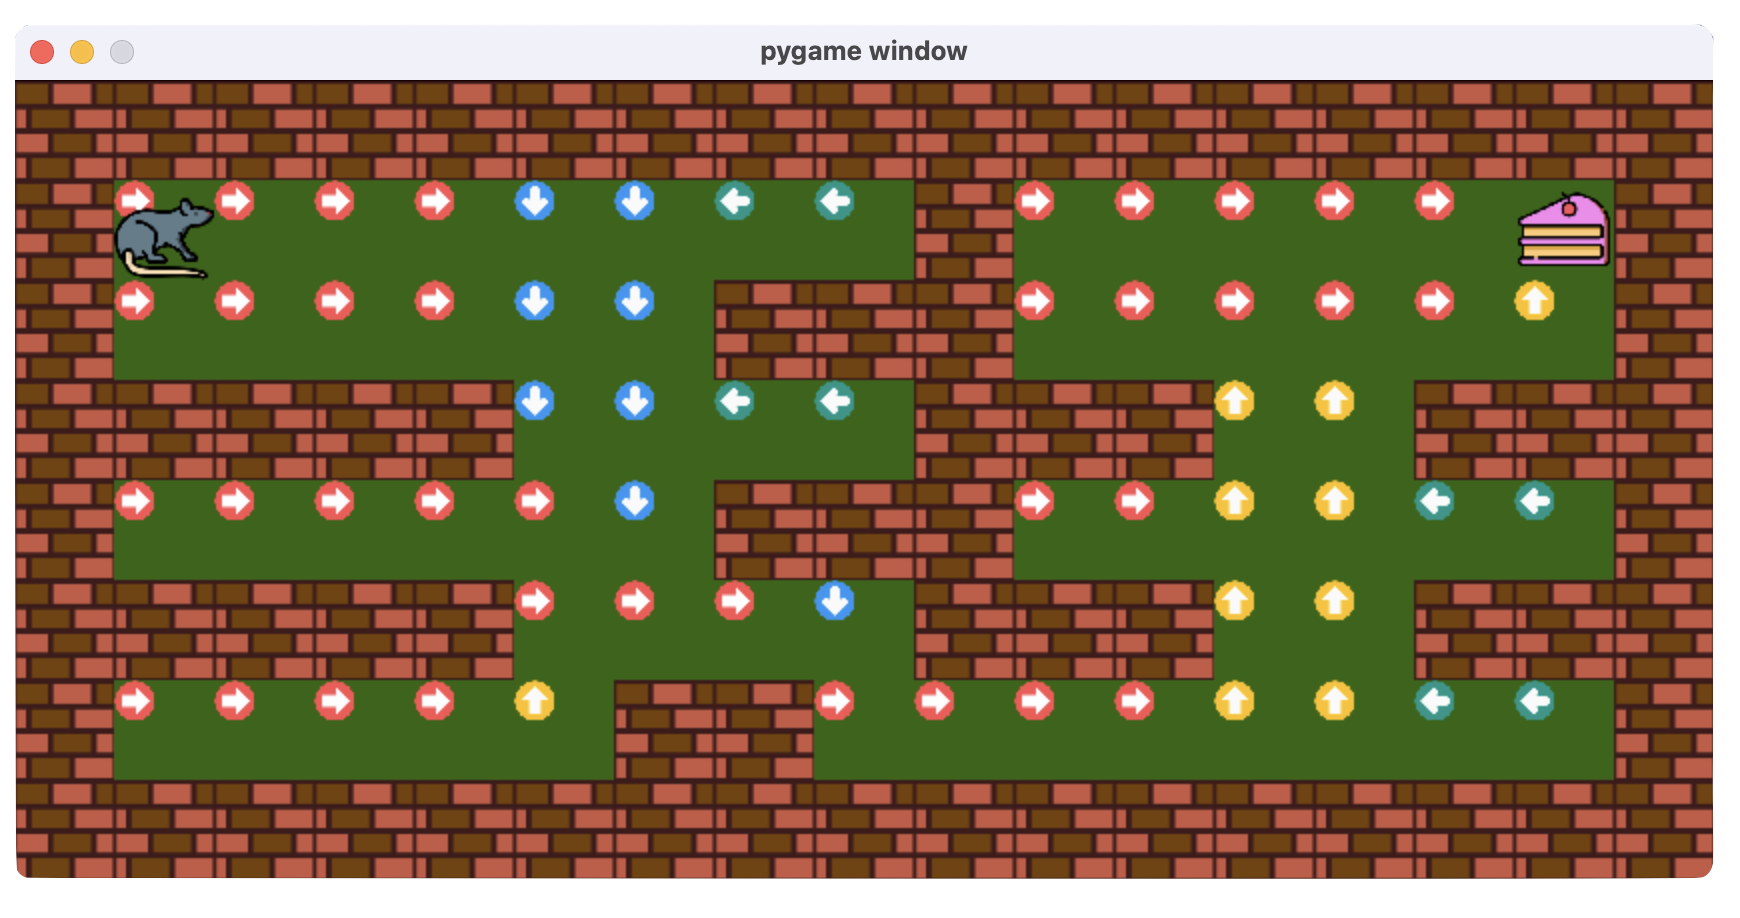
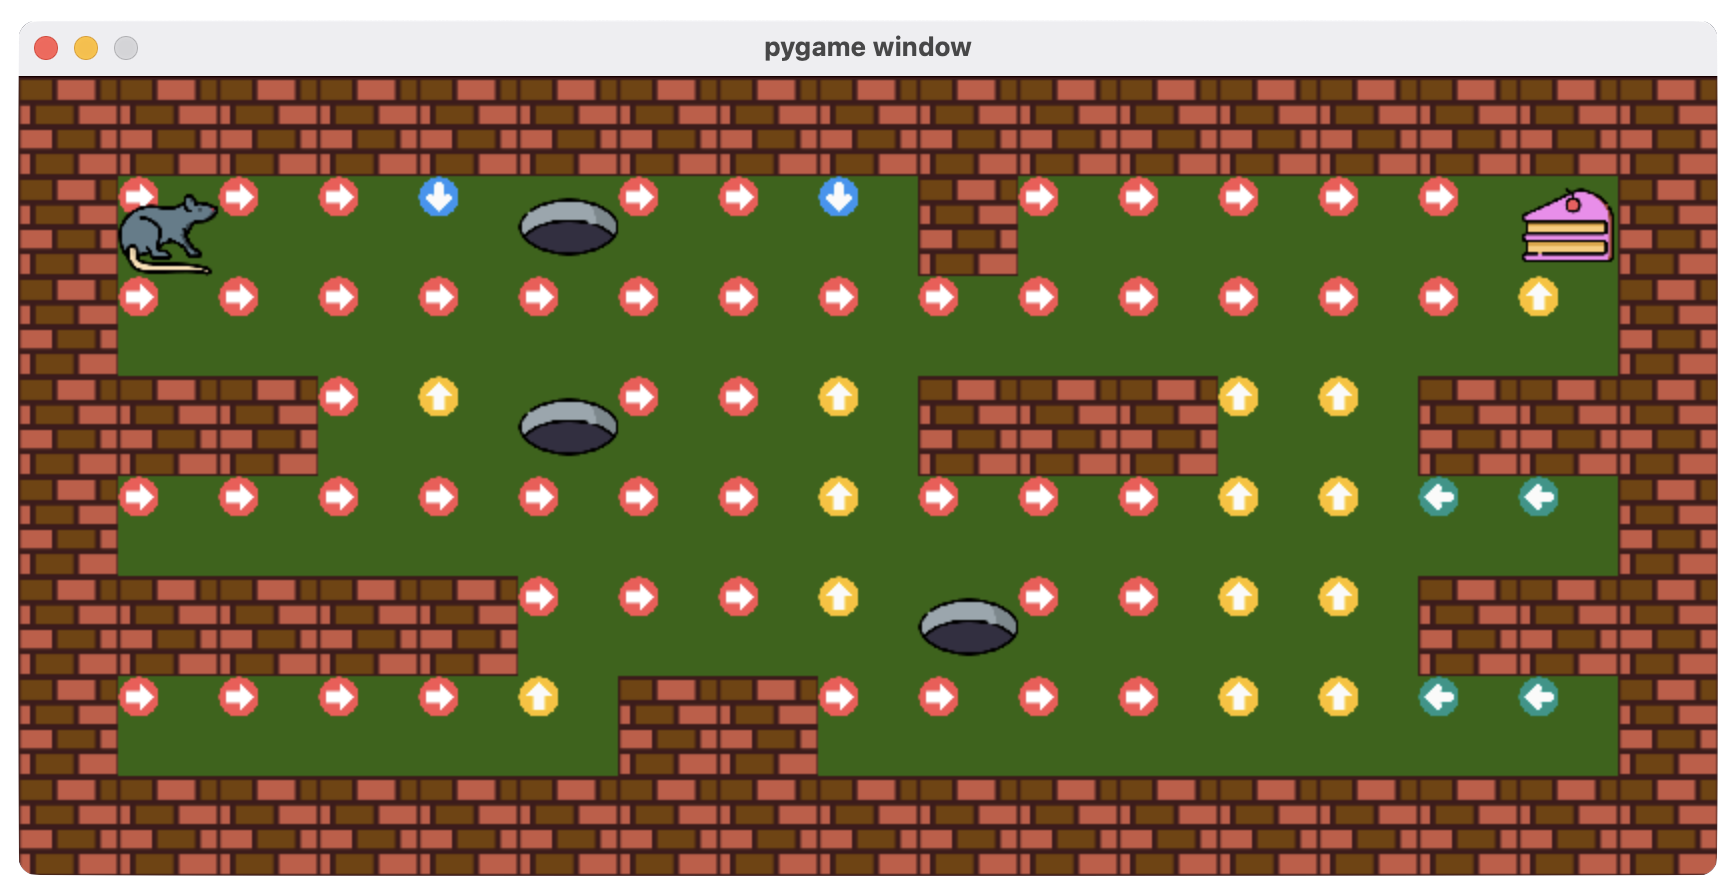
rendering fixed

diff --git a/gridworld/gridworld.py b/gridworld/gridworld.py
@@ -34,7 +34,7 @@ class GridWorld:
                     
                 elif block_type=='a':
                     self.agent=Agent(col=x,row=y,log=self.logging)
-                    self.state_group.add(State(col=x,row=y))
+                    self.state_group.add(State(col=x,row=y,color=self.state_color))
                     self.state_dict[(x,y)]={'state':i,'reward':-1,'done':False}
                     i+=1
                     
@@ -49,7 +49,7 @@ class GridWorld:
                     i+=1
                 
                 elif block_type==' ':
-                    self.state_group.add(State(col=x,row=y))
+                    self.state_group.add(State(col=x,row=y,color=self.state_color))
                     self.state_dict[(x,y)]={'state':i,'reward':-1,'done':False}
                     i+=1
                     
@@ -95,7 +95,8 @@ class GridWorld:
             self.screen = pg.display.set_mode((self.col*50,self.row*50))
             self.renderfirst=False
         self.screen.fill(self.state_color)
-        self.wall_group.draw(self.screen)  
+        self.wall_group.draw(self.screen) 
+        self.state_group.draw(self.screen)
         self.goal.draw(self.screen)    
         self.agent.draw(self.screen)
         pg.display.update()
@@ -107,16 +108,23 @@ class GridWorld:
         pg.quit()
         
         
-    def setPolicy(self,policy):
+    def __setPolicy(self,policy):
         for i,act in enumerate(policy):
             self.policy[i]=self.action_map[act]
         for s in self.state_group:
             s.change_with_policy(self.state_dict,self.policy)
+    
+    def __unsetPolicy(self):
+        self.policy={}
+        for s in self.state_group:
+            s.default_state()
         
-        
-    def play_as_human(self,show_policy=False):
-        if show_policy and len(self.policy)==0:
-            raise Exception("Sorry, no policy found setPolicy first...use world.setPolicy([list of action for states])")
+    def play_as_human(self,policy=None):
+        show_policy=False
+        if policy is not None:
+            self.__setPolicy(policy)
+            show_policy=True
+
         pg.init()
         screen = pg.display.set_mode((self.col*50,self.row*50))
         clock = pg.time.Clock()
@@ -134,23 +142,23 @@ class GridWorld:
                             response=self.agent.move('up',self.wall_group,self.state_dict)
                         elif event.key == pg.K_DOWN:
                             response=self.agent.move('down',self.wall_group,self.state_dict)
-                
+
             screen.fill(self.state_color)
-              
+
             self.wall_group.draw(screen)  
-            if show_policy:self.state_group.draw(screen)
+            self.state_group.draw(screen)
             self.goal.draw(screen)    
             self.agent.draw(screen)
             
             pg.display.update()
             pg.display.flip()
-            clock.tick(60)  
+            clock.tick(60)
+        self.__unsetPolicy()
         pg.quit()
 
     
     def show(self,policy):
-        self.setPolicy(policy)
-        self.play_as_human(show_policy=True)
+        self.play_as_human(policy)
 
 
     def build_Model(self,slip):

diff --git a/gridworld/modules/state.py b/gridworld/modules/state.py
@@ -2,12 +2,17 @@ import pygame as pg
 import pkg_resources
 
 class State(pg.sprite.Sprite):
-    def __init__(self,col,row):
+    def __init__(self,col,row,color):
         super().__init__()
-        self.image=pg.Surface((50,50))
+        self.color=color
+        self.default_state()
         self.rect=self.image.get_rect()
         self.pos=pg.Vector2(col,row)
         self.set_pixcel_position()
+
+    def default_state(self):
+        self.image=pg.Surface((50,50))
+        self.image.fill(self.color)
         
     def set_pixcel_position(self):
         self.rect.x=self.pos.x*50

diff --git a/gridworld/modules/hole.py b/gridworld/modules/hole.py
@@ -20,3 +20,6 @@ class Hole(pg.sprite.Sprite):
 
     def change_with_policy(self,state_dict,policy): #policy={0:'up',1:'down'} etc
         pass
+    
+    def default_state(self):
+        pass

diff --git a/test.py b/test.py
@@ -21,6 +21,4 @@ w=GridWorld(world,log=True)
 
 policy=np.random.choice(w.action_space,size=w.state_count)
 
-w.setPolicy(policy)
-
-w.play_as_human(True)
+w.play_as_human(policy)

diff --git a/README.md b/README.md
@@ -12,7 +12,7 @@ python setup.py install
 ```
 
 # Model-based
-See how we define the custom-grid world "a" being agents location, "g" being the goal, and "w" being walls to obstruct the agent. For a model-based setup we can access the transition and reward dynamics "P_sas" and "R_sa" as shown below.
+See how we define the custom-grid world "a" being agents location, "g" being the goal, "o" being holes, and "w" being walls to obstruct the agent. For a model-based setup we can access the transition and reward dynamics "P_sas" and "R_sa" as shown below.
 ```python
 import numpy as np
 from gridworld import GridWorld
@@ -20,11 +20,11 @@ from gridworld import GridWorld
 world=\
     """
     wwwwwwwwwwwwwwwww
-    wa       w     gw
-    w      www      w
-    wwwww    www  www
-    w      www      w
-    wwwww    www  www
+    wa   o   w     gw
+    w               w
+    www  o   www  www
+    w               w
+    wwwww    o    www
     w     ww        w
     wwwwwwwwwwwwwwwww
     """
@@ -48,15 +48,17 @@ env.show(pi)  # Show the policy in graphical window and we can control the agent
 ```
 The policy is shown below:
 ```
-Pi: [0 0 0 0 1 1 2 2 0 0 0 0 0 3 0 0 0 0 1 1 0 0 0 0 0 3 1 1 2 2 3 3 0 0 0 0 0
- 1 0 0 3 3 2 2 0 0 0 1 3 3 0 0 0 0 3 0 0 0 0 3 3 2 2]
+Pi: [0, 0, 0, 1, 0, 0, 0, 1, 0, 0, 0, 0, 0, 3, 0, 0, 0, 0, 0, 0, 0, 0,
+     0, 0, 0, 0, 0, 0, 3, 0, 3, 0, 0, 0, 3, 3, 3, 0, 0, 0, 0, 0, 0, 0,
+     3, 0, 0, 0, 3, 3, 2, 2, 0, 0, 0, 3, 0, 0, 0, 3, 3, 0, 0, 0, 0, 3,
+     0, 0, 0, 0, 3, 3, 2, 2]
 
 # where mapping is {0:'right',1:'down',2:'left',3:'up'}
 ```
 <img src="./assets/solved.png" width="60%"/>
 
 # Model-Free
-See how we define the custom-grid world "a" being agents location, "g" being the goal, and "w" being walls to obstruct the agent. For a model-free setup we can interact with the environment with a openai-gym like interface and observe the <S,A,R,S'> tuples as shown below.
+See how we define the custom-grid world "a" being agents location, "g" being the goal, "o" being holes, and "w" being walls to obstruct the agent. For a model-free setup we can interact with the environment with a openai-gym like interface and observe the <S,A,R,S'> tuples as shown below.
 ```python
 import time
 import numpy as np
